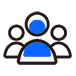
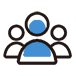
2021-02-23

Changed region(s): [[0.2895, 0.5526, 0.6842, 0.7632], [0.3684, 0.2632, 0.6053, 0.4474]]

diff --git a/pages/letter/letter.js b/pages/letter/letter.js
@@ -1,0 +1,121 @@
+const app = getApp()
+import { requestLetter } from '../../api/hr/message'
+Page({
+  /**
+   * 页面的初始数据
+   */
+  data: {
+    list: [],
+    buttontext: '加载中..',
+    loading: true,
+    pageNum: 1,
+    loadData: false,
+  },
+  onNavTo(e) {
+    const { id } = e.currentTarget.dataset
+    wx.navigateTo({
+      url: `/pages/article/article?id=${id}`,
+    })
+  },
+  getSingleLists: function (pageNum = 1) {
+    this.setData({
+      loadData: false,
+      nomore: false,
+      loading: true,
+      showLoadButton: true,
+    })
+    requestLetter({
+      pageindex: pageNum,
+      pagesize: 10,
+    })
+      .then((res) => {
+        console.log(res)
+        if (res.data.ret == 'success') {
+          var data = res.data.dataList
+          this.setData({
+            init: true,
+          })
+          if (res.data.TotalCount - 10 * (pageNum - 1) <= 10) {
+            this.setData({
+              nomore: true,
+              buttontext: '暂无更多数据',
+              loading: false,
+              pageNum: 0,
+            })
+          } else {
+            this.setData({
+              buttontext: '加载中..',
+              loading: true,
+              pageNum: pageNum,
+            })
+          }
+
+          if (res.data.TotalCount > 0) {
+            this.setData({
+              list: pageNum == 1 ? data : this.data.list.concat(data),
+              nomore: false,
+            })
+          } else {
+            this.setData({
+              list: [],
+              nomore: true,
+            })
+          }
+        } else {
+          this.setData({
+            list: [],
+            nomore: true,
+          })
+        }
+      })
+      .catch(() => {
+        this.setData({
+          nomore: true,
+        })
+      })
+      .finally(() => {
+        this.setData({
+          loadData: true,
+          showLoadButton: false,
+        })
+      })
+  },
+  /**
+   * 生命周期函数--监听页面加载
+   */
+  onLoad: function (options) {
+    this.getSingleLists()
+  },
+
+  /**
+   * 生命周期函数--监听页面初次渲染完成
+   */
+  onReady: function () {},
+
+  /**
+   * 生命周期函数--监听页面显示
+   */
+  onShow: function () {},
+
+  /**
+   * 生命周期函数--监听页面隐藏
+   */
+  onHide: function () {},
+
+  /**
+   * 生命周期函数--监听页面卸载
+   */
+  onUnload: function () {},
+
+  /**
+   * 页面相关事件处理函数--监听用户下拉动作
+   */
+  onPullDownRefresh: function () {},
+
+  /**
+   * 页面上拉触底事件的处理函数
+   */
+  onReachBottom: function () {
+    this.data.pageNum != 0 && this.getSingleLists()
+  },
+})

diff --git a/pages/index/index.scss b/pages/index/index.scss
@@ -4,18 +4,20 @@ page {
   background: #fff;
 }
 .nav-section {
-  padding: 0 40rpx;
+  padding: 20rpx 40rpx;
   background: #fff;
+  border-bottom: 20rpx solid #f8f8f8;
   .flex-box {
-    justify-content: space-between;
+    flex-wrap: wrap;
+    // justify-content: space-between;
   }
   .flex-item {
-    padding: 40rpx 0;
-    flex: 0 0 auto;
+    padding: 20rpx 0;
+    flex: 0 0 (100% / 4);
   }
   .image {
-    width: 58rpx;
-    height: 58rpx;
+    width: 70rpx;
+    height: 70rpx;
     display: block;
     margin: 0 auto 20rpx;
   }
@@ -107,6 +109,7 @@ page {
       font-size: 27rpx;
       font-weight: 500;
       color: #666;
+      white-space: nowrap;
       &.active {
         font-size: 38rpx;
         color: #333;
@@ -116,6 +119,7 @@ page {
   .btn {
     margin-left: auto;
     font-size: 0;
+    padding-left: 40rpx;
     .iconfont {
       color: #444;
     }
@@ -133,7 +137,7 @@ page {
   .swiper {
     width: 100%;
     height: 280rpx;
-    border-radius: 12px;
+    border-radius: 6px;
     transform: translateY(0);
     overflow: hidden;
   }

diff --git a/pages/search/search.js b/pages/search/search.js
@@ -71,7 +71,7 @@ Page({
     } = this.data
     if (
       this.data.searchKey == '' &&
-      ['fieldwork', 'pluralism', 'nearby'].indexOf(this.data.type) == -1
+      ['fieldwork', 'pluralism', 'nearby', 'other'].indexOf(this.data.type) == -1
     ) {
       this.setData({
         list: [],
@@ -97,7 +97,7 @@ Page({
         staffsize: sizeValue.join(','),
         industry: industryValue.join(','),
         typeid: type == 'fieldwork' ? 27 : type == 'pluralism' ? 28 : '',
-        classid: this.data.classid,
+        classid: type == 'other' ? 1043 : this.data.classid,
       })
     } else {
       // 公司搜索
@@ -264,6 +264,11 @@ Page({
     })
     //fieldwork实习， pluralism 兼职，nearby 附近，留空全职
     switch (options.type) {
+      case 'other':
+        wx.setNavigationBarTitle({
+          title: '其他职位',
+        })
+        break
       case 'fieldwork':
         wx.setNavigationBarTitle({
           title: '找实习',

diff --git a/pages/main/main.js b/pages/main/main.js
@@ -30,7 +30,7 @@ Page({
   },
   onShareAppMessage: function (e) {
     return {
-      title: `柯城就业创业招聘网`,
+      title: `柯城区求职招聘云平台`,
       // path: `/pages/selectSeat/selectSeat?code=${
       //   this.data.Codes[e.target.dataset.index]
       // }`,
@@ -47,7 +47,7 @@ Page({
     switch (index) {
       case 0:
         wx.setNavigationBarTitle({
-          title: '柯城就业创业招聘网',
+          title: '柯城区求职招聘云平台',
         })
         break
       case 1:

diff --git a/pages/letter/letter.scss b/pages/letter/letter.scss
@@ -1,0 +1,28 @@
+@import '../../scss/minxi/minxi.scss';
+@import '../../scss/variable/variable.scss';
+page {
+  background: #fff;
+}
+.item {
+  padding: 30rpx 0;
+  @include border-bottom($borderColor, 0, 0);
+  .item-header { 
+    margin-bottom: 20rpx;
+  }
+  .item-body {
+    margin-bottom: 20rpx;
+  }
+  .label {}
+  .author {
+    color: #999;
+    font-size: 24rpx;
+  }
+  .title {
+    font-weight: 500;
+    font-size: 28rpx;
+  }
+  .time {
+    color: #999;
+    font-size: 24rpx;
+  }
+}

diff --git a/pages/my/my.js b/pages/my/my.js
@@ -175,7 +175,7 @@ Page({
    */
   onShareAppMessage: function () {
     return {
-      title: '柯城就业创业招聘网',
+      title: '柯城区求职招聘云平台',
       path: '/pages/index/index',
       imageUrl: 'https://s3.ax1x.com/2021/01/21/sh67FI.jpg',
     }

diff --git a/scss/variable/variable.scss b/scss/variable/variable.scss
@@ -1,4 +1,4 @@
-$bodycolor: #0866FF;
+$bodycolor: #529ad7;
 $borderColor: #EBEBEB;
 
 $tabBarColor: #408ce2; //底部tab颜色
